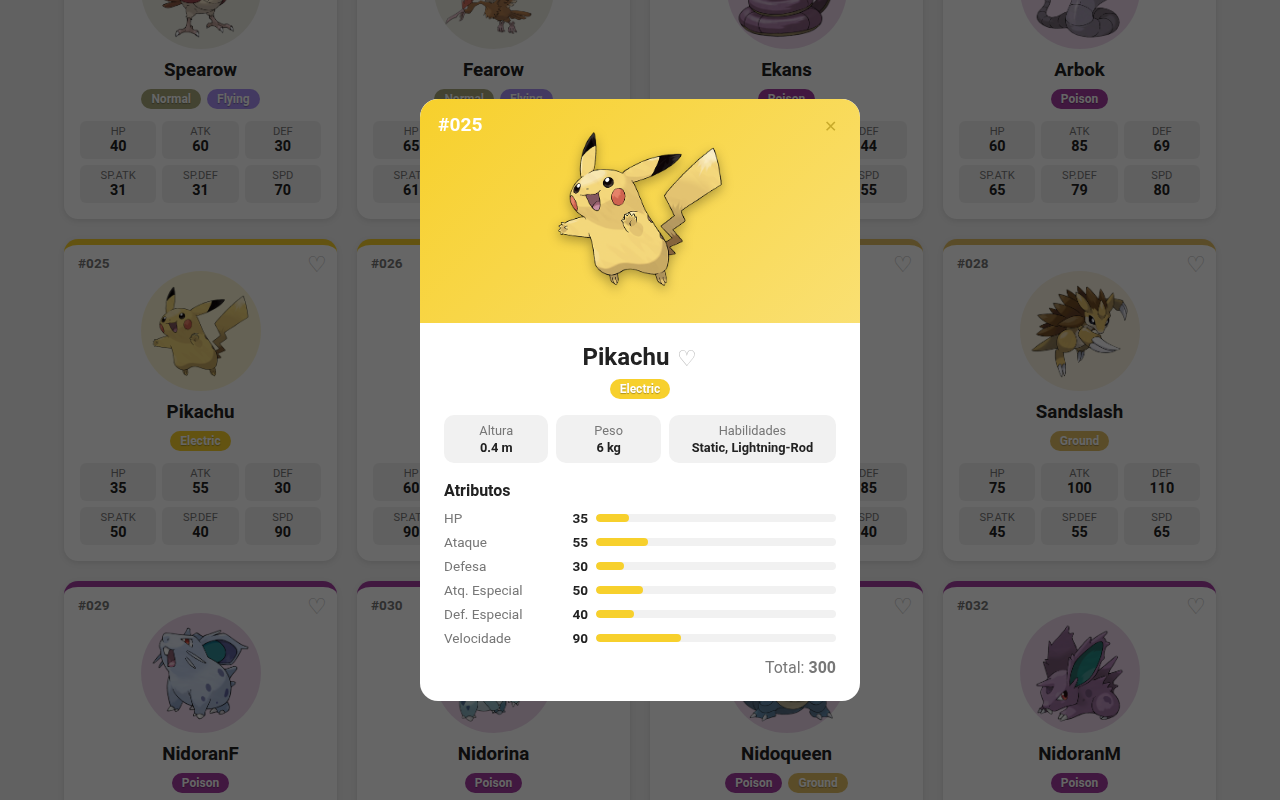
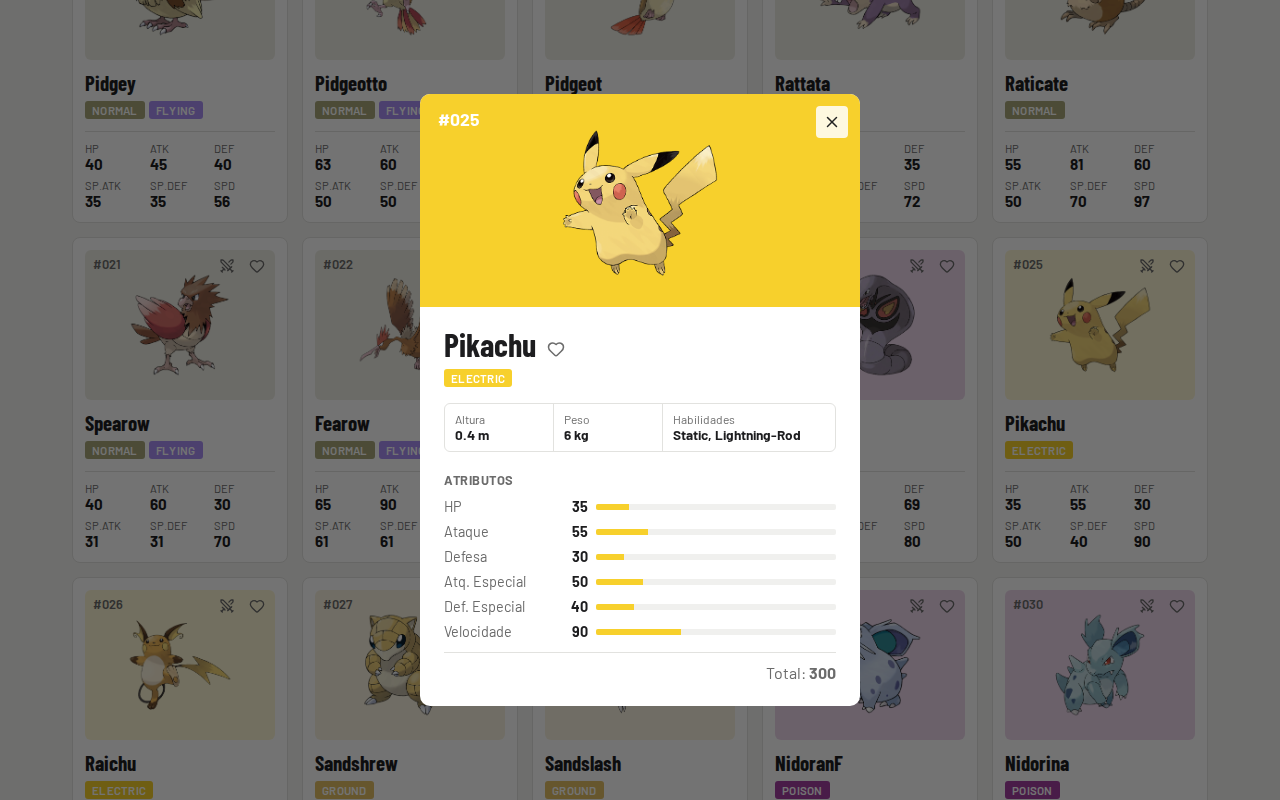
Atualiza README e prints

diff --git a/atividade03/README.md b/atividade03/README.md
@@ -24,9 +24,11 @@ Pokédex interativa feita com React + Vite usando os dados do arquivo `pokedex-d
 - Tema escuro
 - Layout responsivo (desktop, tablet e celular)
 - Mensagem quando nenhum Pokémon é encontrado
-- Comparar Pokémon, mostrando qual melhor atributo entre eles através do botão ⚔.
+- Comparação entre dois Pokémon, destacando o maior valor de cada atributo
 
 ![Detalhes](./docs/detalhes.png)
+
+![Comparação](./docs/comparacao.png)
 
 ![Treinadores](./docs/treinadores.png)
 
@@ -111,4 +113,6 @@ atividade03/
 - React 19
 - Vite
 - CSS puro
+- [Lucide](https://lucide.dev/) para os ícones (`lucide-react`)
+- Fonte Barlow (Google Fonts)
 - PokéAPI
